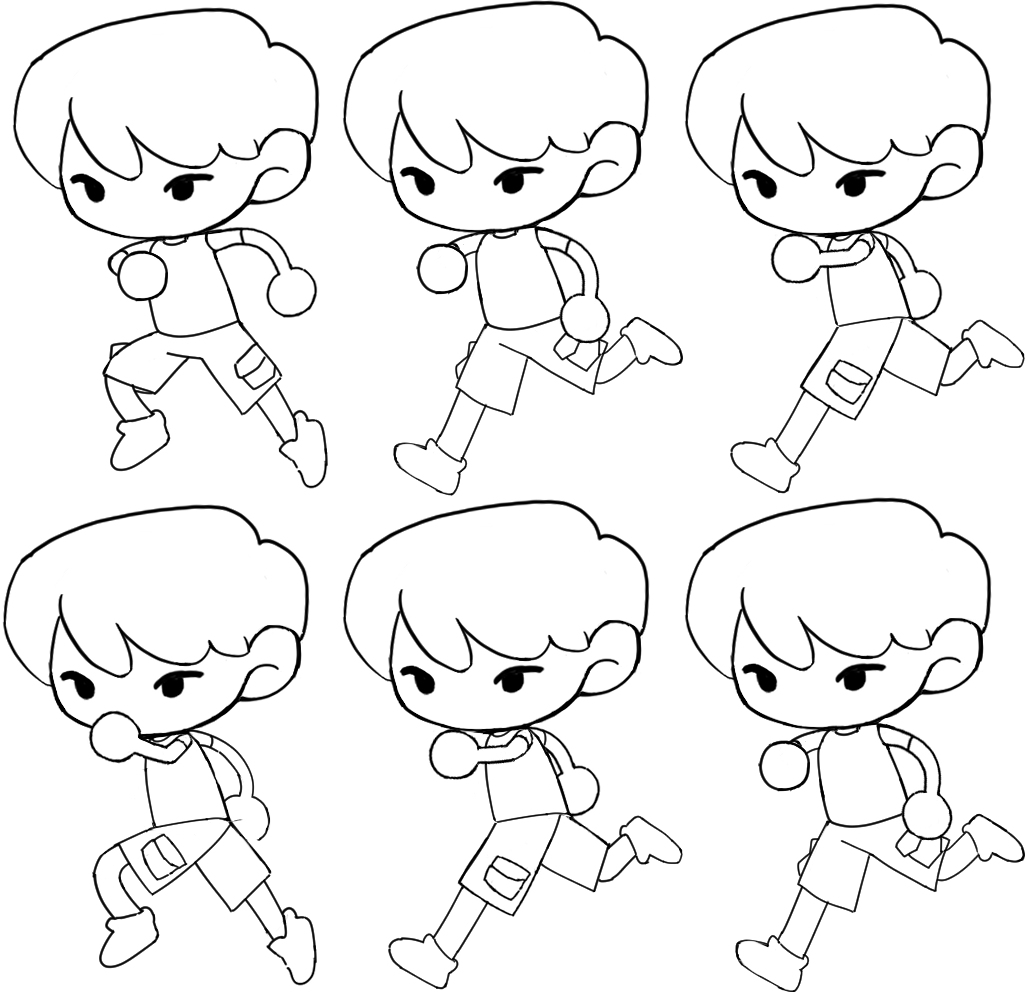
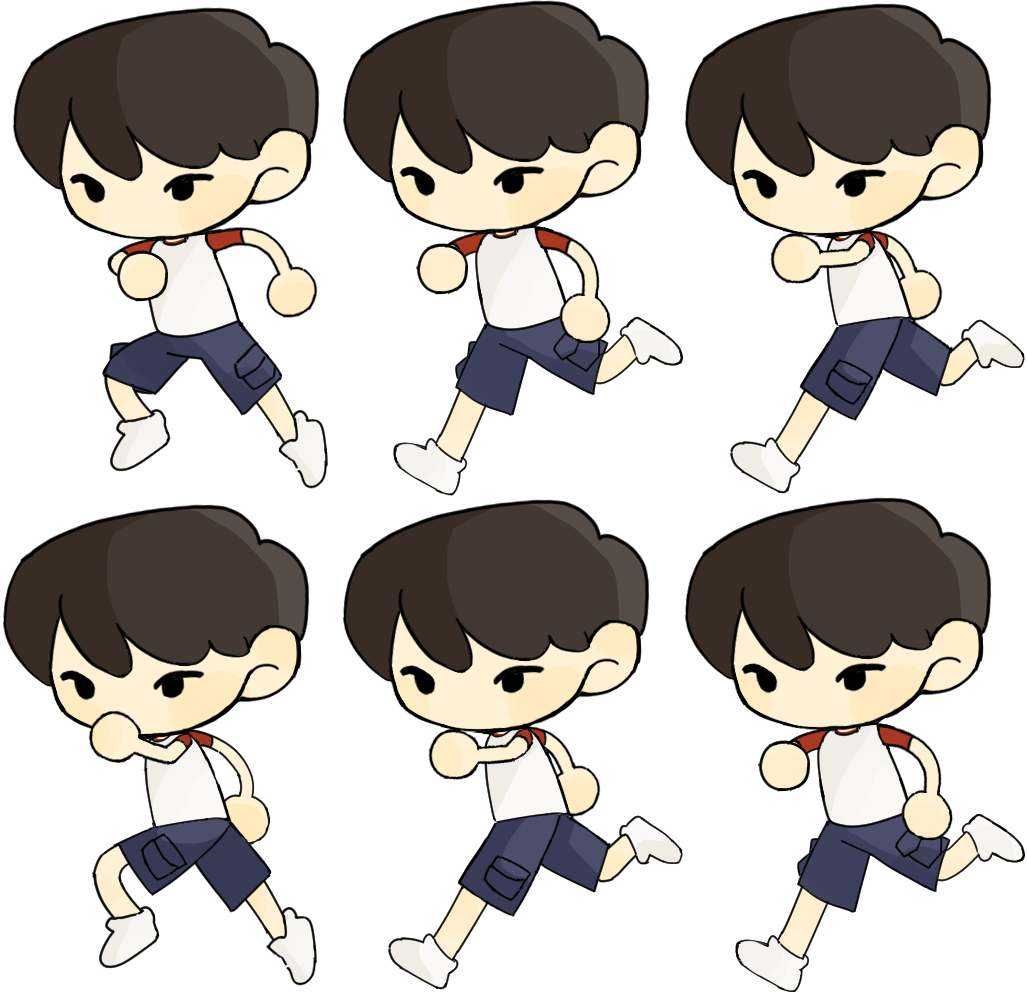
주인공 애셋 추가

diff --git a/Assets/Scripts/Player/JunHyung/PlayerMoveJunHyung.cs b/Assets/Scripts/Player/JunHyung/PlayerMoveJunHyung.cs
@@ -69,11 +69,9 @@ public class PlayerMoveJunHyung : MonoBehaviour
         // 점프 입력 처리 (공중 아닐 때만 가능)
         if (Input.GetButtonDown("Jump") && !anim.GetBool("isJump"))
         {
-
             rigid.velocity = new Vector2(rigid.velocity.x, 0f); // Y속도 초기화 (더블 점프 방지)
             rigid.AddForce(Vector2.up * jumpPower, ForceMode2D.Impulse); // 점프 힘 가하기
             anim.SetBool("isJump", true); // 점프 상태로 전환
-
 
         }
 
@@ -88,6 +86,7 @@ public class PlayerMoveJunHyung : MonoBehaviour
         float h = Input.GetAxisRaw("Horizontal");
         if (h != 0)
         {
+            anim.SetBool("isWalk", true); // 이동 애니메이션
             spriteRenderer.flipX = h > 0; // 왼쪽 입력 시 flipX = true
 
             // 공격 범위 위치도 방향에 맞춰 좌우 반전
@@ -104,9 +103,13 @@ public class PlayerMoveJunHyung : MonoBehaviour
                 firePoint.localPosition.z
             );
         }
+        else
+        {
+            anim.SetBool("isWalk", false);
+        }
 
         // 걷기 애니메이션 상태 업데이트 (속도에 따라)
-        anim.SetBool("isWalk", !anim.GetBool("isJump") && Mathf.Abs(rigid.velocity.x) >= 0.3f);
+        // anim.SetBool("isWalk", !anim.GetBool("isJump") && Mathf.Abs(rigid.velocity.x) >= 0.3f);
 
         // 공격 시작 입력 처리
         if (Input.GetButtonDown("Fire1") && !isAttacking && !isDashing)
